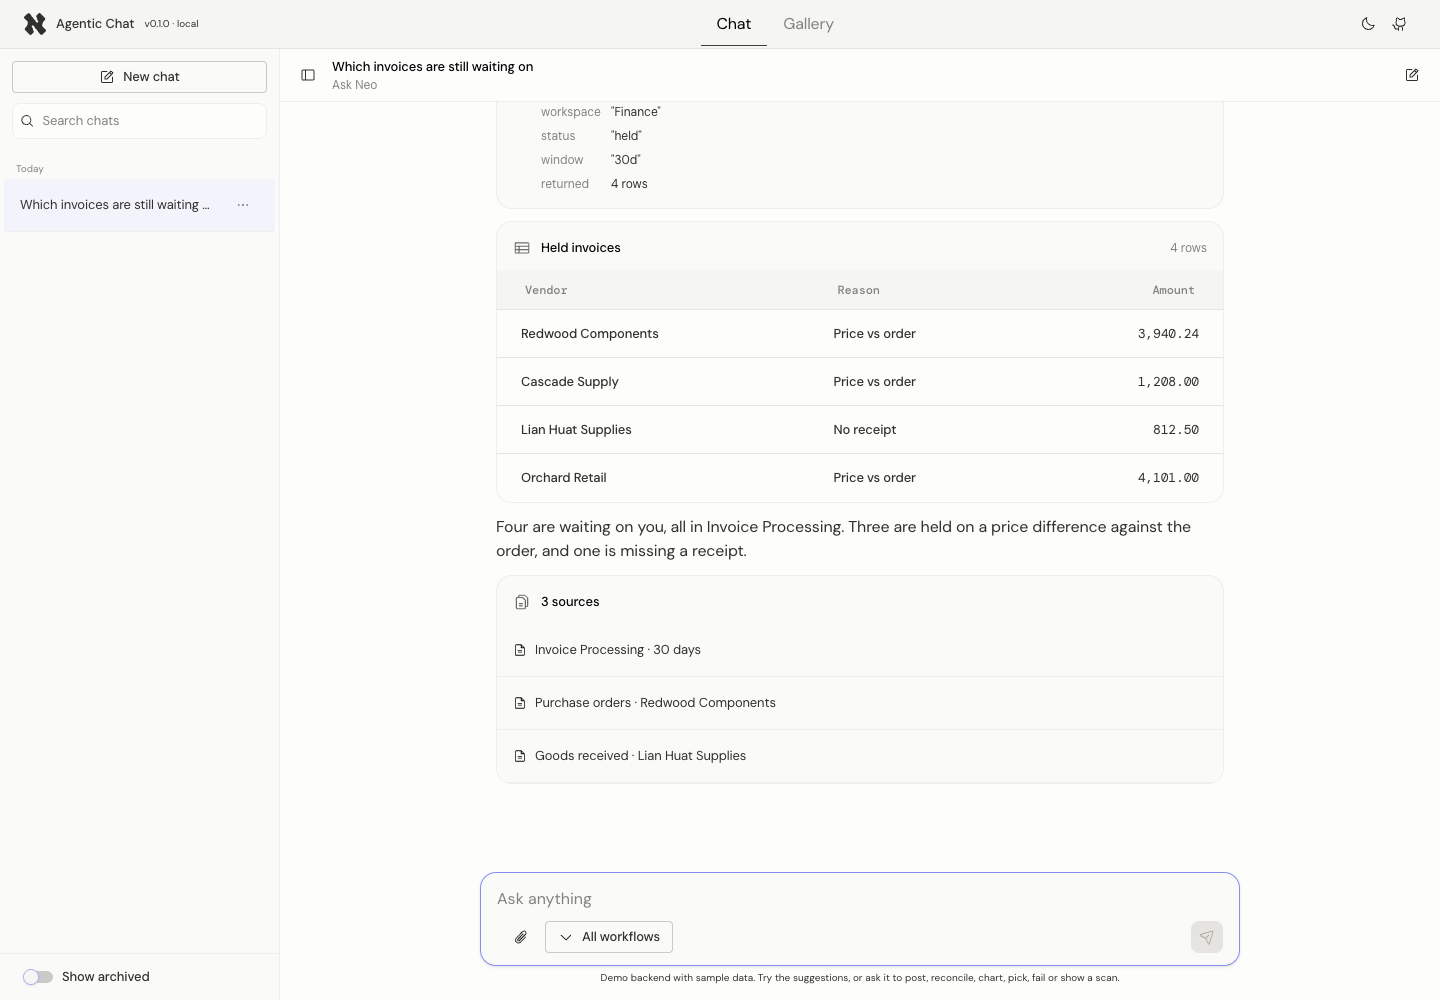
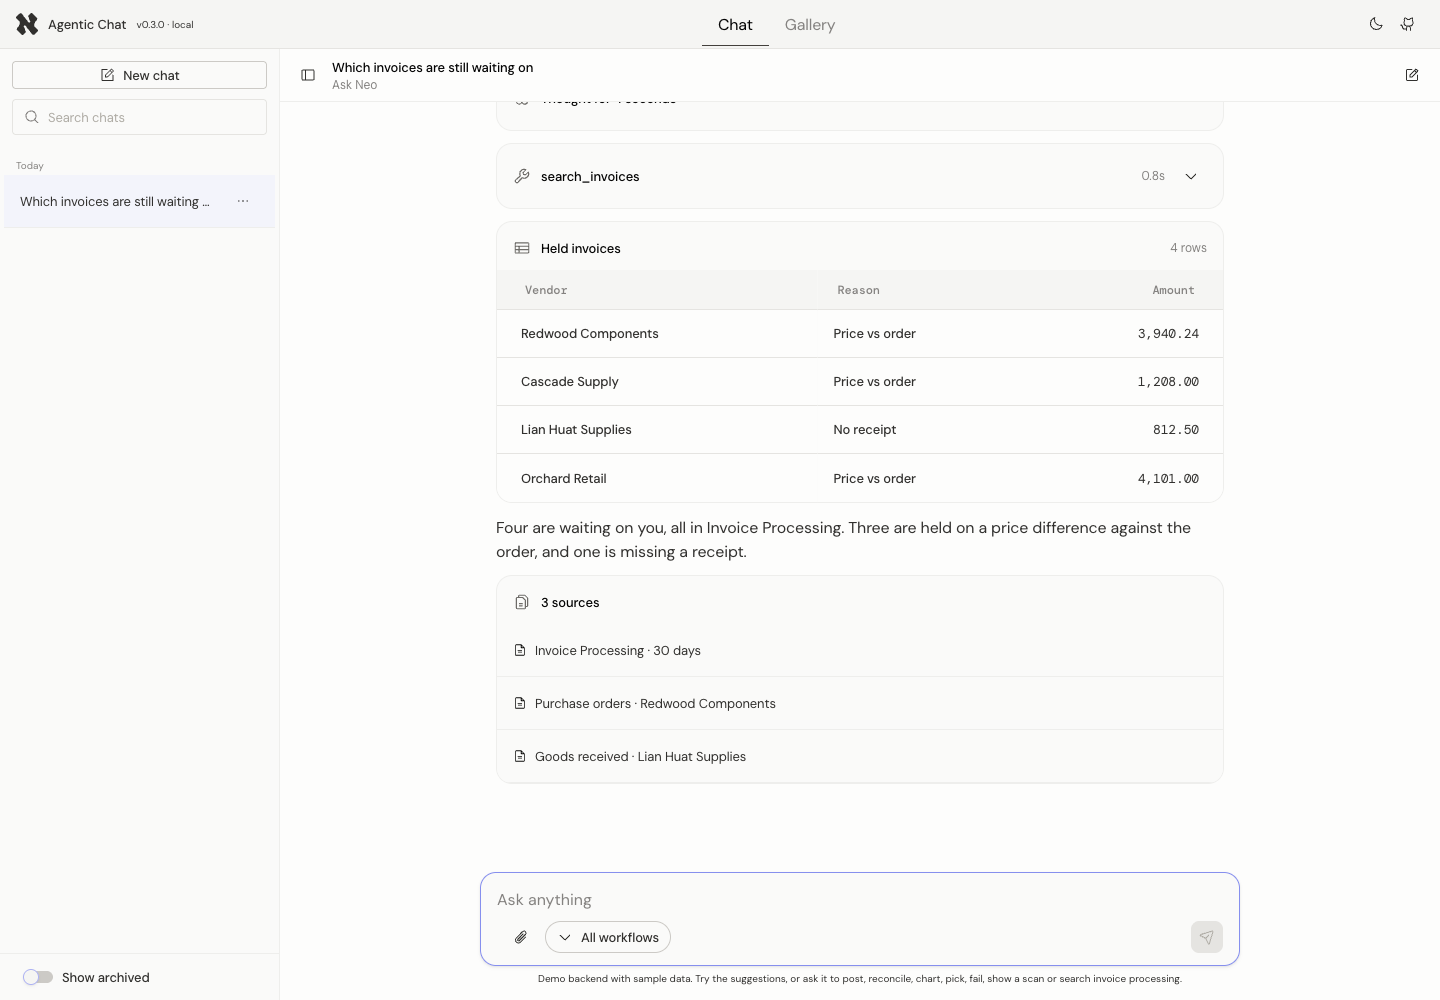
docs: refresh screenshots and wording for 0.3.0
- README screenshots retaken in the playground at 1440x1000: they dated from
  0.1.0 and showed the tool card open and the old square picker.
- backend-contract: the run status is a tag now, not a pill.
- custom-blocks: BlockShell's defaultOpen / open / onOpenChange, for a card
  that starts folded like the tool card.

diff --git a/docs/backend-contract.md b/docs/backend-contract.md
@@ -174,7 +174,7 @@ message_start → (status | content_block_start → content_block_delta* → con
 | Event                 | What the client does                                                                                                                                                                      |
 | --------------------- | ----------------------------------------------------------------------------------------------------------------------------------------------------------------------------------------- |
 | `message_start`       | Opens the assistant message, keyed by `message_id`, and keeps the id for cancel. `user_message_id` and the echoed `client_message_id` swap the optimistic user message for the saved one. |
-| `status`              | Shows `label` in the progress pill until the next `status` or the end of the turn.                                                                                                        |
+| `status`              | Shows `label` in the run-status tag until the next `status` or the end of the turn.                                                                                                       |
 | `content_block_start` | Adds the block, keyed by `block.id`, so **`id` must be unique within a message**. `index` only has to be unique within one stream.                                                        |
 | `content_block_delta` | `snapshot` replaces the block's streaming field (or the whole payload when it's an object). Without it, `delta.text` is appended. Send snapshots: they make a dropped delta harmless.     |
 | `content_block_stop`  | Replaces the block with the final `block`, the source of truth.                                                                                                                           |

diff --git a/docs/custom-blocks.md b/docs/custom-blocks.md
@@ -52,7 +52,7 @@ const approvals = { ...approvalBlock, type: ['approval', 'approval_card'] };
 
 Build cards from the kit so they match the built-in blocks:
 
-- `BlockShell`: the card itself. It takes `icon`, `title`, `meta`, `actions`, `footer`, `collapsible`, `tone` (`primary`, `warning`, `danger` for attention), and `flushBody` for edge-to-edge content.
+- `BlockShell`: the card itself. It takes `icon`, `title`, `meta`, `actions`, `footer`, `collapsible` (with `defaultOpen={false}` to start folded, as the tool card does, or `open` and `onOpenChange` to control it), `tone` (`primary`, `warning`, `danger` for attention), and `flushBody` for edge-to-edge content.
 - `KeyValueList`: muted keys against values.
 - `Shimmer`: text still arriving.
 - `ChartCard`, `ChartLegend`, `useChartPalette` from `/charts`.
